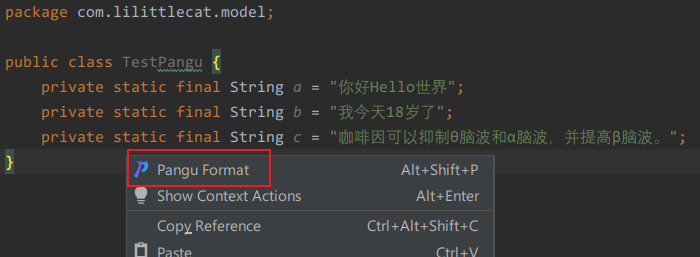
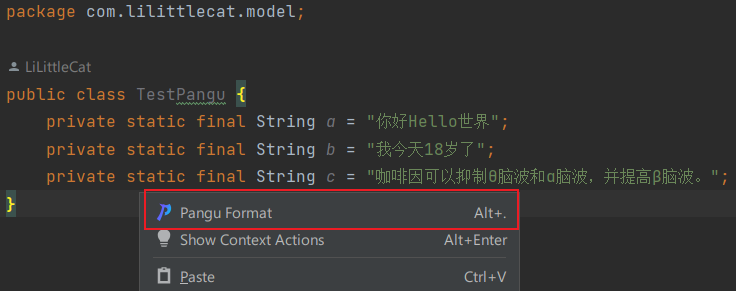
Update files for version 1.1.0

diff --git a/DESCRIPTION.md b/DESCRIPTION.md
@@ -1,28 +1,74 @@
 <!-- Plugin description -->
 Automatically inserts whitespace between CJK (Chinese, Japanese, Korean), half-width English, digit, and symbol characters.
 
-When you select some text, the plugin will only space the selected text.
+## Usage
+
+You can use this plugin to spacing content in editor and commit message.
+
+### In Editor
+When you select some text in editor, the plugin will only space the selected text.
 Otherwise, it will space the whole file.
 
-### Usage
-There are three ways to use this plugin to spacing:
-- See editor popup menu > <kbd>Pangu Format</kbd>.
-- See <kbd>Tools</kbd> > <kbd>Pangu Format</kbd>.
-- Use <kbd>⌥ + .</kbd> / <kbd>Alt + .</kbd> .
+There are three ways to use:
+- See editor popup menu > <kbd>Pangu Format</kbd>
+
+- Use <kbd>Alt + .</kbd> / <kbd>⌥ + .</kbd>
+
+- Use Reformat Code Action (<kbd>Ctrl + Alt + L</kbd> / <kbd>⌘ + ⌥ + L</kbd> by default)
+
+  Pangu Format Action will perform after internal Reformat Code Action.
+
+  You can disable this feature in <kbd>Settings/Preferences</kbd> > <kbd>Tools</kbd> > <kbd>Pangu</kbd>
+
+### In Commit message
+
+There are also three ways to use this plugin in commit message:
+
+- Click the Pangu Format icon besides the commit message text area.
+
+- Use <kbd>Alt + .</kbd> / <kbd>⌥ + .</kbd>
+
+- Use Reformat Commit Message Action (<kbd>Ctrl + Alt + L</kbd> / <kbd>⌘ + ⌥ + L</kbd> by default)
+
+  Pangu Format Action will perform after internal Reformat Commit Message action.
+
 
 If you find something is not working or missing, feel free to submit an issue on [GitHub repo](https://github.com/LiLittleCat/intellij-pangu).
 
 ---
+<br/>
 
 自动在 CJK（中文、日文、韩文）、英文、数字和符号之间插入空格。
 
+## 使用
+
+你可以使用这个插件对编辑器中的文本和提交信息里的文本进行空格插入格式化。
+
+### 编辑器中的文本
+
 当你在文件中选中部分内容时，该插件只会在选中的部分进行空格插入。 没有选中时，该插件会在当前文件的所有文本进行空格插入。
 
-### 使用方法
-有三种方式使用此插件：
-- 在编辑时右键弹出菜单中使用 > <kbd>Pangu Format</kbd>。
-- 使用 <kbd>Tools</kbd> > <kbd>Pangu Format</kbd>。
-- 使用快捷键 <kbd>⌥ + ⇧ + P</kbd> / <kbd>Alt + Shift + P</kbd>。
+有三种使用方式：
+
+- 在编辑时右键弹出菜单中使用 <kbd>Pangu Format</kbd>
+- 使用快捷键 <kbd>Alt + .</kbd> / <kbd>⌥ + .</kbd>
+- 使用软件自带格式化代码功能（默认快捷键：<kbd>Ctrl + Alt + L</kbd> / <kbd>⌘ + ⌥ + L</kbd>）
+
+  插件会在自带格式化代码功能之后执行空格插入。
+
+  你可以在 <kbd>Settings/Preferences</kbd> > <kbd>Tools</kbd> > <kbd>Pangu</kbd> 关闭此功能：
+
+### 提交信息中的文本
+
+同样有三种方式：
+
+- 点击提交信息旁边的图标
+
+- 使用快捷键 <kbd>Alt + .</kbd> / <kbd>⌥ + .</kbd>
+
+- 使用软件自带格式化提交信息功能（默认快捷键：<kbd>Ctrl + Alt + L</kbd> / <kbd>⌘ + ⌥ + L</kbd>）
+
+  插件会在自带格式化提交信息功能之后执行空格插入。
 
 
 有任何问题或者建议，欢迎在 [GitHub repo](https://github.com/LiLittleCat/intellij-pangu) 提交 issue。

diff --git a/README.md b/README.md
@@ -42,19 +42,43 @@ Here are some examples:
   <kbd>Settings/Preferences</kbd> > <kbd>Plugins</kbd> > <kbd>⚙</kbd> > <kbd>Install plugin from disk...</kbd>
 
 ## Usage
-When you select some text, the plugin will only space the selected text.
+
+You can use this plugin to spacing content in editor and commit message.
+
+### In Editor
+When you select some text in editor, the plugin will only space the selected text.
 Otherwise, it will space the whole file.
 
-There are three ways to use this plugin to spacing:
-- See editor popup menu > <kbd>Pangu Format</kbd>.
+There are three ways to use:
+- See editor popup menu > <kbd>Pangu Format</kbd>
 
   ![EditorPopupMenu](example/EditorPopupMenu.png)
 
-- See <kbd>Tools menu</kbd> > <kbd>Pangu Format</kbd>.
+- Use <kbd>Alt + .</kbd> / <kbd>⌥ + .</kbd>
 
-  ![Tools](example/Tools.png)
+- Use Reformat Code Action (<kbd>Ctrl + Alt + L</kbd> / <kbd>⌘ + ⌥ + L</kbd>  by default)
 
-- Use <kbd>⌥ + .</kbd> / <kbd>Alt + .</kbd> .
+  Pangu Format Action will perform after internal Reformat Code Action.
+
+  You can disable this feature in <kbd>Settings/Preferences</kbd> > <kbd>Tools</kbd> > <kbd>Pangu</kbd>
+
+  ![Setting](example/Setting.png)
+  
+
+### In Commit message
+
+There are also three ways to use this plugin in commit message:
+
+- Click the Pangu Format icon besides the commit message text area.
+
+  ![CommitMessage](example/CommitMessage.png)
+
+- Use <kbd>Alt + .</kbd> / <kbd>⌥ + .</kbd>
+
+- Use Reformat Commit Message Action (<kbd>Ctrl + Alt + L</kbd> / <kbd>⌘ + ⌥ + L</kbd>  by default)
+
+  Pangu Format Action will perform after internal Reformat Commit Message action.
+
 
 ## Thanks
 

diff --git a/README_CN.md b/README_CN.md
@@ -42,19 +42,42 @@
 
 ## 使用
 
+你可以使用这个插件对编辑器中的文本和提交信息里的文本进行空格插入格式化。
+
+### 编辑器中的文本
+
 当你在文件中选中部分内容时，该插件只会在选中的部分进行空格插入。 没有选中时，该插件会在当前文件的所有文本进行空格插入。
 
 有三种使用方式：
 
-- 在编辑时右键弹出菜单中使用 <kbd>Pangu Format</kbd>。
+- 在编辑时右键弹出菜单中使用 <kbd>Pangu Format</kbd>
 
   ![EditorPopupMenu](example/EditorPopupMenu.png)
 
-- 在 <kbd>Tools</kbd> 中使用 <kbd>Pangu Format</kbd>。
+- 使用快捷键 <kbd>Alt + .</kbd> / <kbd>⌥ + .</kbd>
 
-  ![Tools](example/Tools.png)
+- 使用软件自带格式化代码功能（默认快捷键：<kbd>Ctrl + Alt + L</kbd> / <kbd>⌘ + ⌥ + L</kbd>）
+  
+  插件会在自带格式化代码功能之后执行空格插入。
 
-- Use <kbd>⌥ + .</kbd> / <kbd>Alt + .</kbd> 。
+  你可以在 <kbd>Settings/Preferences</kbd> > <kbd>Tools</kbd> > <kbd>Pangu</kbd> 关闭此功能：
+
+  ![Setting](example/Setting.png)
+
+
+### 提交信息中的文本
+
+同样有三种方式：
+
+- 点击提交信息旁边的图标
+
+  ![CommitMessage](example/CommitMessage.png)
+
+- 使用快捷键 <kbd>Alt + .</kbd> / <kbd>⌥ + .</kbd>
+
+- 使用软件自带格式化提交信息功能（默认快捷键：<kbd>Ctrl + Alt + L</kbd> / <kbd>⌘ + ⌥ + L</kbd>）
+
+  插件会在自带格式化提交信息功能之后执行空格插入。
 
 ## 致谢
 

diff --git a/CHANGELOG.md b/CHANGELOG.md
@@ -4,6 +4,12 @@
 
 ## [Unreleased]
 
+### Added
+- Support all IntelliJ Platform-Based IDEs.
+- Support format in commit message.
+- Support format in Reformat Code Action and Reformat Commit Message Action.
+- Change the keyboard shortcut because it conflicts with "Commit and Push" while using the non-model commit interface in Version Control.
+
 ## [1.0.0]
 ### Added
 - Spacing selected content.
